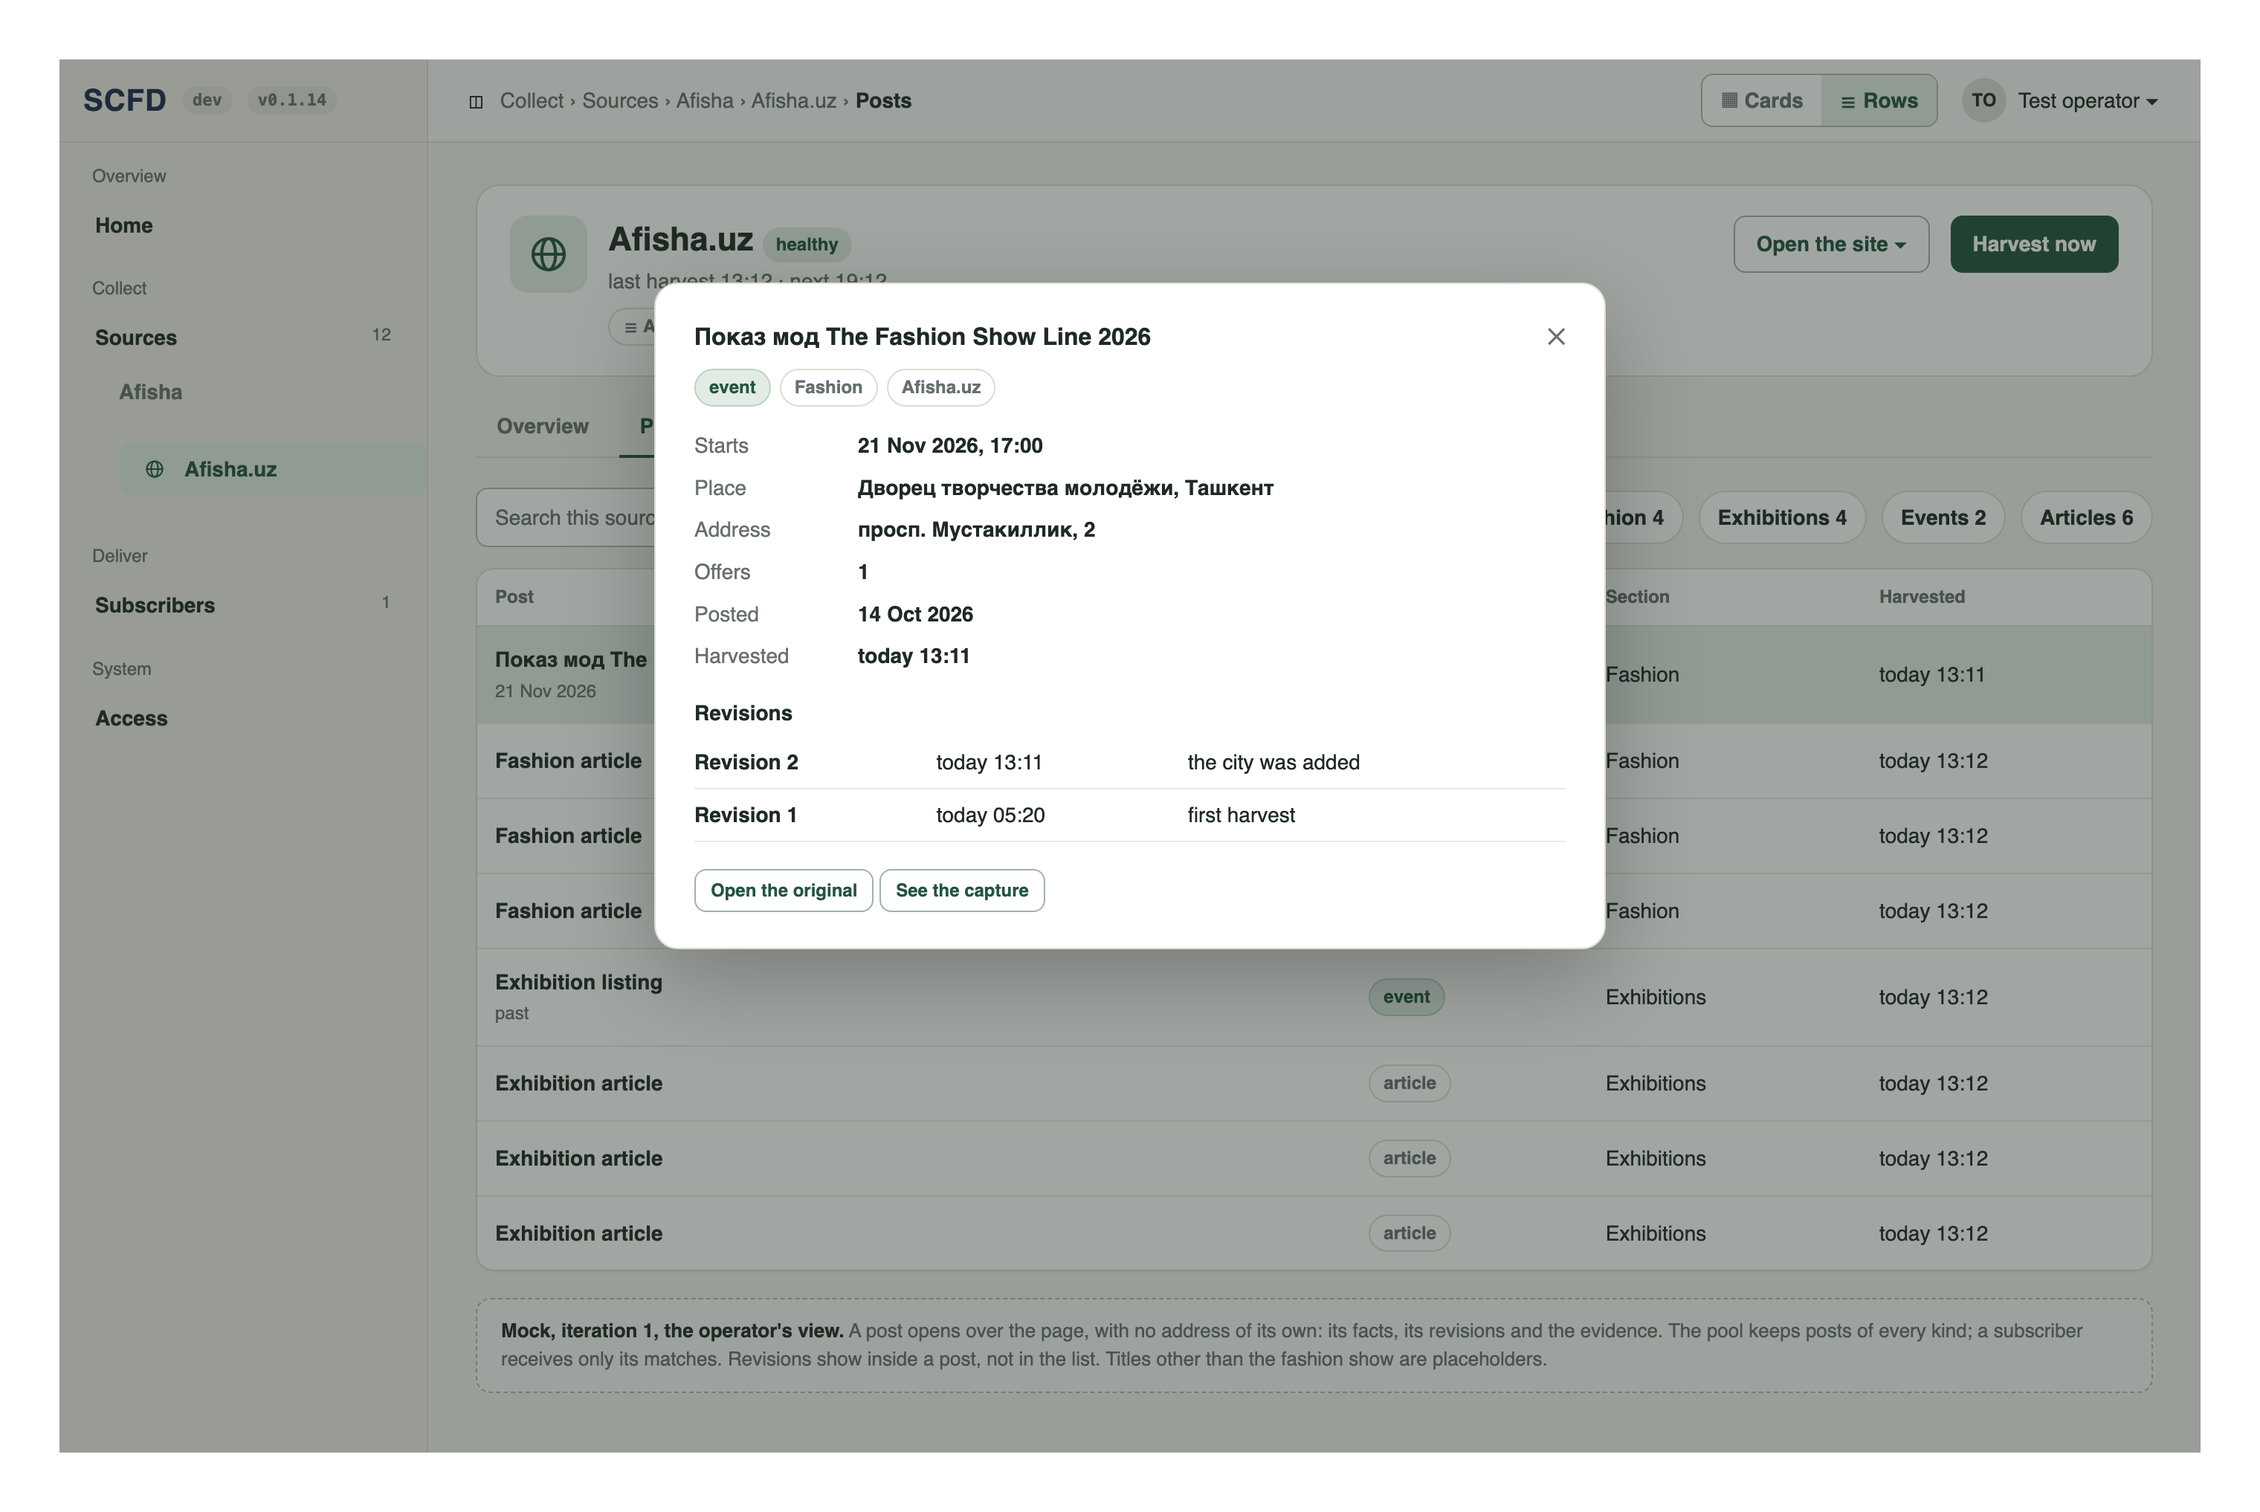
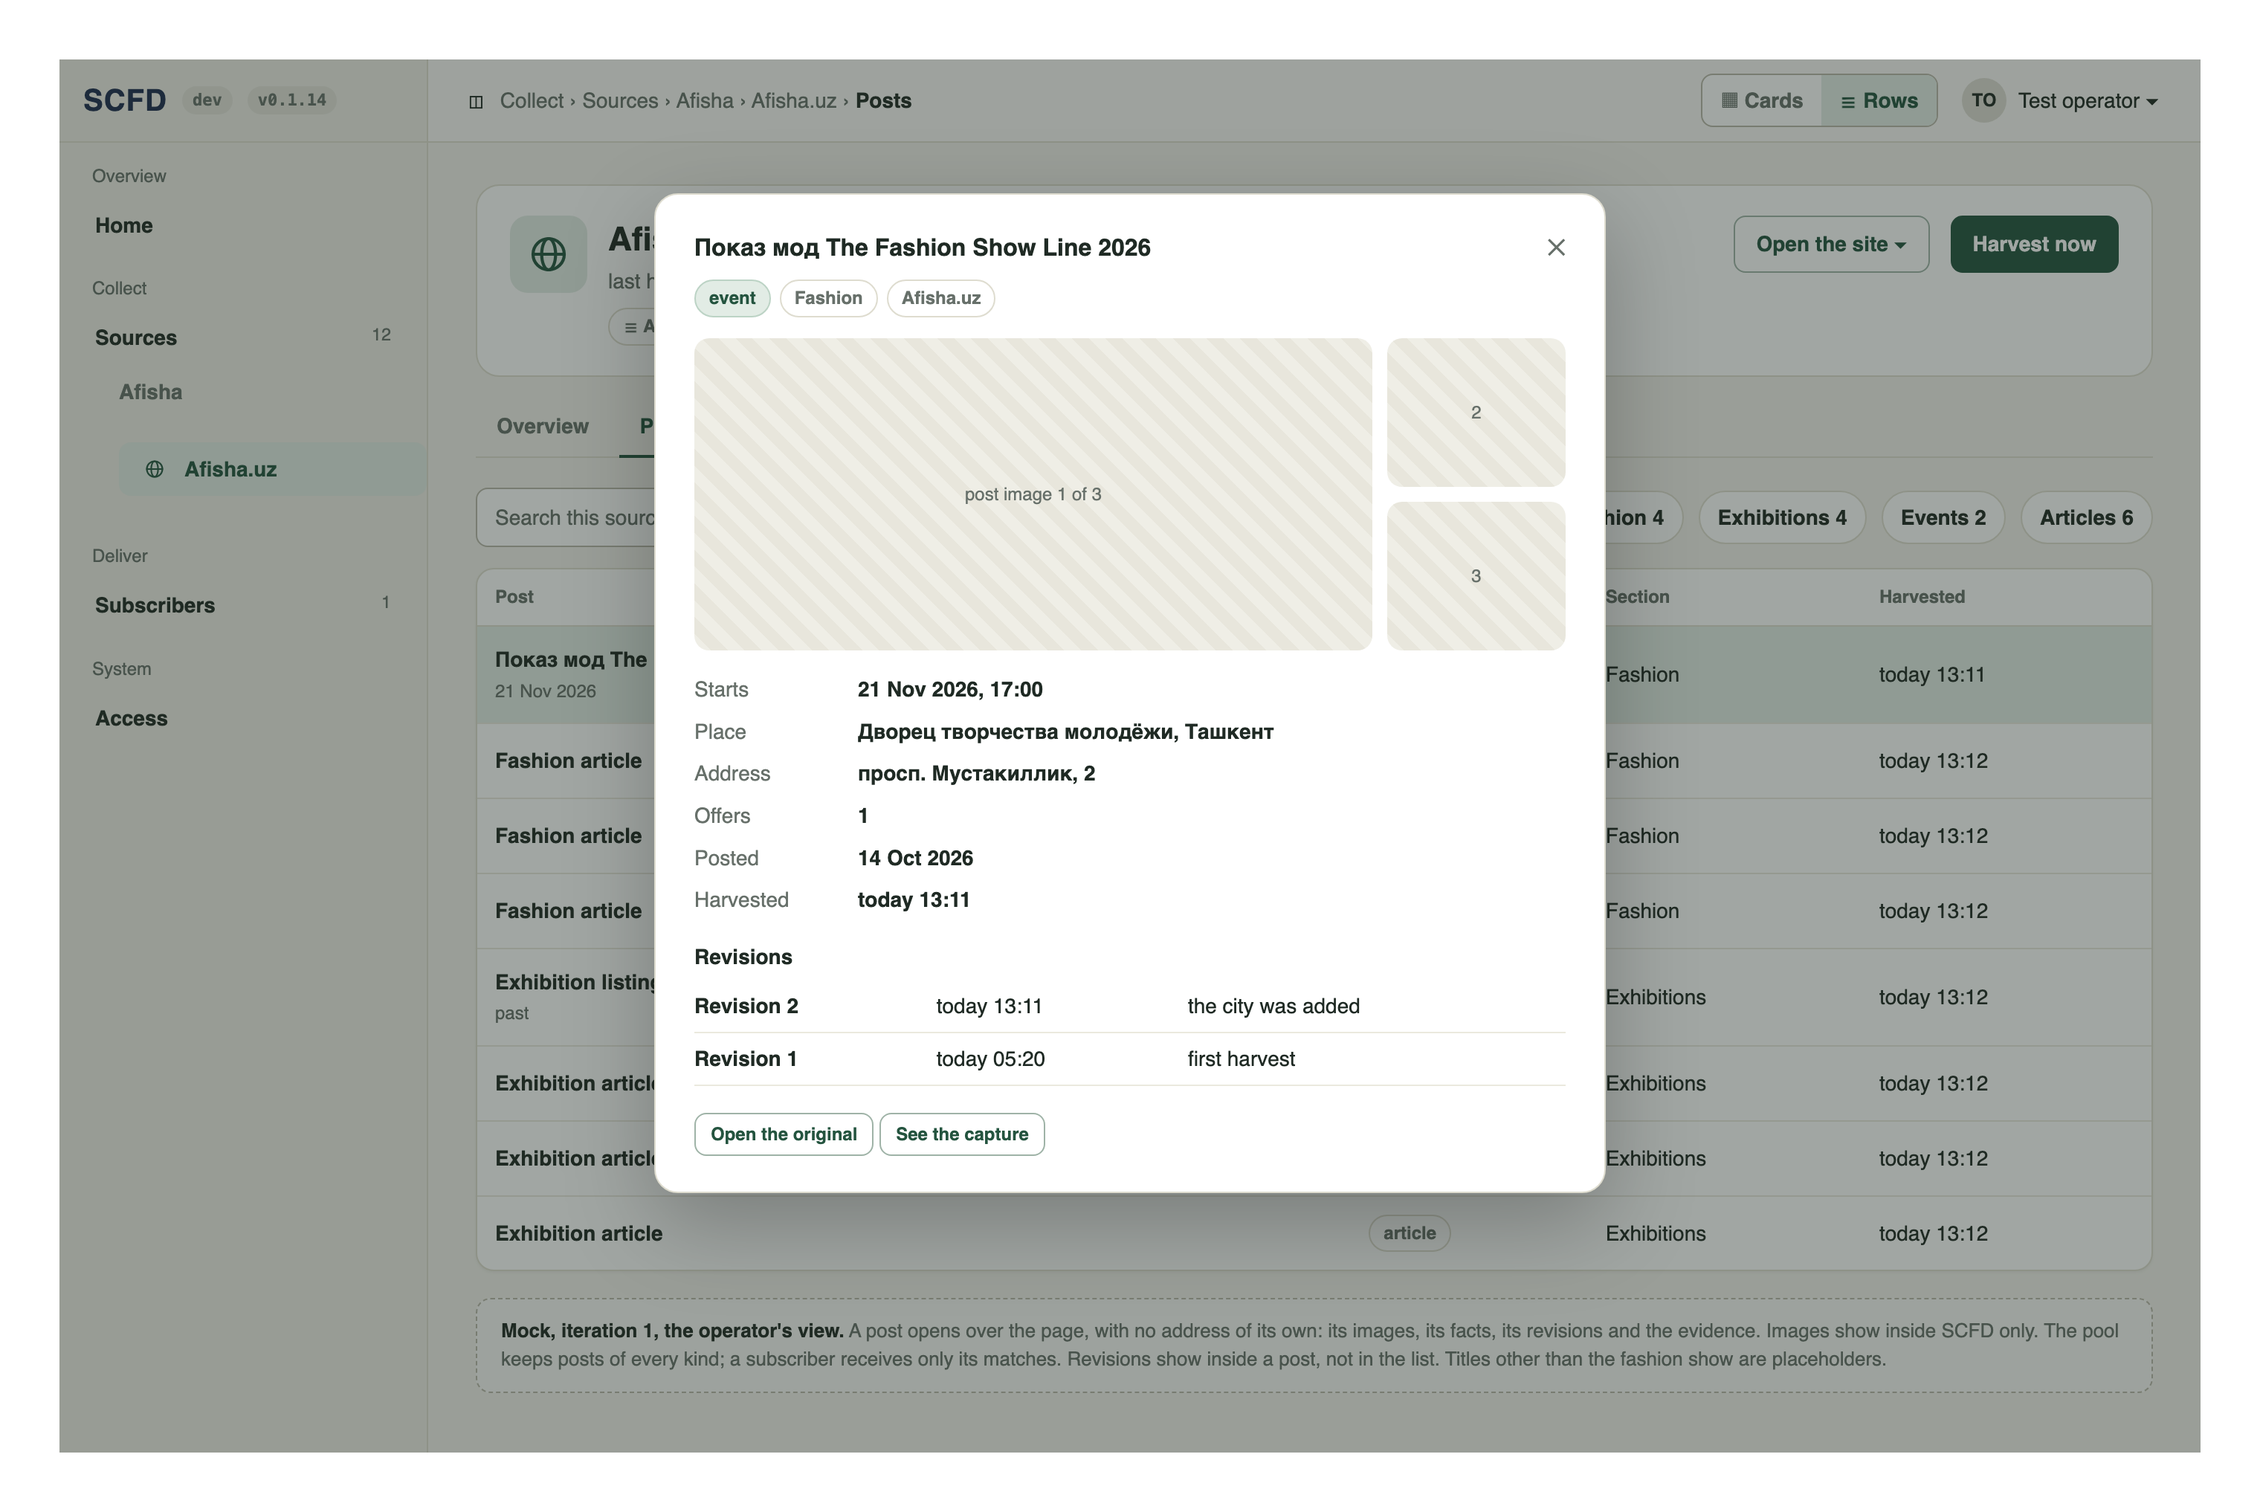
docs: added images to the SCFD post view and settled the harvest interval

diff --git a/system/sessions/events-integration/scfd-console/mocks/iter-1/source-afisha-posts-cards.html b/system/sessions/events-integration/scfd-console/mocks/iter-1/source-afisha-posts-cards.html
@@ -13,24 +13,24 @@
 <span class="grow"></span><span class="btn">Open the site &#9662;</span><span class="btn go">Harvest now</span></div></div>
 <div class="tabs"><span class="tab">Overview</span><span class="tab on">Posts <small>8</small></span><span class="tab">Activity <small>4</small></span><span class="tab">Settings</span></div><div class="row" style="margin-bottom:14px"><span class="search">Search this source's posts</span>
   <span class="filter on">All 8</span><span class="filter">Fashion 4</span><span class="filter">Exhibitions 4</span>
-  <span class="filter">Events 2</span><span class="filter">Articles 6</span></div><div class="tiles four"><div class="card pcard"><div class="thumb">image link kept</div>
+  <span class="filter">Events 2</span><span class="filter">Articles 6</span></div><div class="tiles four"><div class="card pcard"><div class="thumb">post image</div>
   <div class="pills"><span class="pill on">event</span><span class="pill ">Fashion</span></div>
-  <b>Показ мод The Fashion Show Line 2026</b><div class="desc">21 Nov 2026</div></div><div class="card pcard"><div class="thumb">no image kept</div>
+  <b>Показ мод The Fashion Show Line 2026</b><div class="desc">21 Nov 2026</div></div><div class="card pcard"><div class="thumb">post image</div>
   <div class="pills"><span class="pill ">article</span><span class="pill ">Fashion</span></div>
-  <b>Fashion article</b><div class="desc">no date</div></div><div class="card pcard"><div class="thumb">no image kept</div>
+  <b>Fashion article</b><div class="desc">no date</div></div><div class="card pcard"><div class="thumb">post image</div>
   <div class="pills"><span class="pill ">article</span><span class="pill ">Fashion</span></div>
-  <b>Fashion article</b><div class="desc">no date</div></div><div class="card pcard"><div class="thumb">no image kept</div>
+  <b>Fashion article</b><div class="desc">no date</div></div><div class="card pcard"><div class="thumb">post image</div>
   <div class="pills"><span class="pill ">article</span><span class="pill ">Fashion</span></div>
-  <b>Fashion article</b><div class="desc">no date</div></div><div class="card pcard"><div class="thumb">image link kept</div>
+  <b>Fashion article</b><div class="desc">no date</div></div><div class="card pcard"><div class="thumb">post image</div>
   <div class="pills"><span class="pill on">event</span><span class="pill ">Exhibitions</span></div>
-  <b>Exhibition listing</b><div class="desc">past</div></div><div class="card pcard"><div class="thumb">no image kept</div>
+  <b>Exhibition listing</b><div class="desc">past</div></div><div class="card pcard"><div class="thumb">post image</div>
   <div class="pills"><span class="pill ">article</span><span class="pill ">Exhibitions</span></div>
-  <b>Exhibition article</b><div class="desc">no date</div></div><div class="card pcard"><div class="thumb">no image kept</div>
+  <b>Exhibition article</b><div class="desc">no date</div></div><div class="card pcard"><div class="thumb">post image</div>
   <div class="pills"><span class="pill ">article</span><span class="pill ">Exhibitions</span></div>
-  <b>Exhibition article</b><div class="desc">no date</div></div><div class="card pcard"><div class="thumb">no image kept</div>
+  <b>Exhibition article</b><div class="desc">no date</div></div><div class="card pcard"><div class="thumb">post image</div>
   <div class="pills"><span class="pill ">article</span><span class="pill ">Exhibitions</span></div>
   <b>Exhibition article</b><div class="desc">no date</div></div></div>
-<div class="note"><b>Mock, iteration 1, the operator's view.</b> The Cards view shows each post as a tile. The pool keeps posts of every kind; a
+<div class="note"><b>Mock, iteration 1, the operator's view.</b> The Cards view shows each post as a tile with its first image. The pool keeps posts of every kind; a
 subscriber receives only its matches. Revisions show inside a post, not in the list. Titles other than the fashion
 show are placeholders.</div></div>
   </main>

diff --git a/system/sessions/events-integration/scfd-console/mocks/iter-1/source-afisha-post.html b/system/sessions/events-integration/scfd-console/mocks/iter-1/source-afisha-post.html
@@ -14,13 +14,15 @@
 <div class="tabs"><span class="tab">Overview</span><span class="tab on">Posts <small>8</small></span><span class="tab">Activity <small>4</small></span><span class="tab">Settings</span></div><div class="row" style="margin-bottom:14px"><span class="search">Search this source's posts</span>
   <span class="filter on">All 8</span><span class="filter">Fashion 4</span><span class="filter">Exhibitions 4</span>
   <span class="filter">Events 2</span><span class="filter">Articles 6</span></div><div class="card"><table><tr><th>Post</th><th>Kind</th><th>Section</th><th>Harvested</th></tr><tr class="sel"><td><b>Показ мод The Fashion Show Line 2026</b><br><small>21 Nov 2026</small></td><td><span class="pill on">event</span></td><td>Fashion</td><td>today 13:11</td></tr><tr class=""><td><b>Fashion article</b></td><td><span class="pill ">article</span></td><td>Fashion</td><td>today 13:12</td></tr><tr class=""><td><b>Fashion article</b></td><td><span class="pill ">article</span></td><td>Fashion</td><td>today 13:12</td></tr><tr class=""><td><b>Fashion article</b></td><td><span class="pill ">article</span></td><td>Fashion</td><td>today 13:12</td></tr><tr class=""><td><b>Exhibition listing</b><br><small>past</small></td><td><span class="pill on">event</span></td><td>Exhibitions</td><td>today 13:12</td></tr><tr class=""><td><b>Exhibition article</b></td><td><span class="pill ">article</span></td><td>Exhibitions</td><td>today 13:12</td></tr><tr class=""><td><b>Exhibition article</b></td><td><span class="pill ">article</span></td><td>Exhibitions</td><td>today 13:12</td></tr><tr class=""><td><b>Exhibition article</b></td><td><span class="pill ">article</span></td><td>Exhibitions</td><td>today 13:12</td></tr></table></div>
-<div class="note"><b>Mock, iteration 1, the operator's view.</b> A post opens over the page, with no address of its own: its facts, its revisions and the evidence. The pool keeps posts of every kind; a
+<div class="note"><b>Mock, iteration 1, the operator's view.</b> A post opens over the page, with no address of its own: its images, its facts, its revisions and the evidence. Images show inside SCFD only. The pool keeps posts of every kind; a
 subscriber receives only its matches. Revisions show inside a post, not in the list. Titles other than the fashion
 show are placeholders.</div></div>
   </main>
   <div class="veil"><div class="card modal">
   <div class="row"><h2 style="margin:0">Показ мод The Fashion Show Line 2026</h2><span class="grow"></span><span class="x">&#10005;</span></div>
-  <div class="pills" style="margin:10px 0 16px"><span class="pill on">event</span><span class="pill ">Fashion</span><span class="pill ">Afisha.uz</span></div>
+  <div class="pills" style="margin:10px 0 14px"><span class="pill on">event</span><span class="pill ">Fashion</span><span class="pill ">Afisha.uz</span></div>
+  <div class="shots"><div class="thumb shot">post image 1 of 3</div>
+    <div class="shot-col"><div class="thumb">2</div><div class="thumb">3</div></div></div>
   <div class="kv wide-kv"><span>Starts</span><b>21 Nov 2026, 17:00</b>
     <span>Place</span><b>Дворец творчества молодёжи, Ташкент</b>
     <span>Address</span><b>просп. Мустакиллик, 2</b>

diff --git a/system/sessions/events-integration/scfd-console/mocks/iter-1/mock.css b/system/sessions/events-integration/scfd-console/mocks/iter-1/mock.css
@@ -134,3 +134,7 @@ tr.more td { color: var(--muted); font-weight: 600; background: #f8f7f1; }
 .x { color: var(--muted); font-size: 16px; }
 .wide-kv { grid-template-columns: 110px 1fr; }
 table.plain td { padding: 7px 12px 7px 0; border-bottom: 1px solid #ebe9de; }
+.shots { display: grid; grid-template-columns: 1fr 120px; gap: 10px; margin-bottom: 16px; }
+.shot { height: 210px; }
+.shot-col { display: grid; gap: 10px; } .shot-col .thumb { height: 100px; }
+.veil { padding-top: 90px; }

diff --git a/system/sessions/events-integration/scfd-console/mocks/iter-1/build.py b/system/sessions/events-integration/scfd-console/mocks/iter-1/build.py
@@ -250,7 +250,9 @@ POST_FILTERS = """<div class="row" style="margin-bottom:14px"><span class="searc
 
 POST_MODAL = f"""<div class="veil"><div class="card modal">
   <div class="row"><h2 style="margin:0">Показ мод The Fashion Show Line 2026</h2><span class="grow"></span><span class="x">&#10005;</span></div>
-  <div class="pills" style="margin:10px 0 16px">{pill("event", "on")}{pill("Fashion")}{pill("Afisha.uz")}</div>
+  <div class="pills" style="margin:10px 0 14px">{pill("event", "on")}{pill("Fashion")}{pill("Afisha.uz")}</div>
+  <div class="shots"><div class="thumb shot">post image 1 of 3</div>
+    <div class="shot-col"><div class="thumb">2</div><div class="thumb">3</div></div></div>
   <div class="kv wide-kv"><span>Starts</span><b>21 Nov 2026, 17:00</b>
     <span>Place</span><b>Дворец творчества молодёжи, Ташкент</b>
     <span>Address</span><b>просп. Мустакиллик, 2</b>
@@ -274,17 +276,18 @@ def source_posts(view: str, modal: bool = False) -> str:
         )
         content = (f'<div class="card"><table><tr><th>Post</th><th>Kind</th><th>Section</th><th>Harvested</th></tr>'
                    f"{table}</table></div>")
-        note = ("A post opens over the page, with no address of its own: its facts, its revisions and the evidence."
+        note = ("A post opens over the page, with no address of its own: its images, its facts, its revisions and the "
+                "evidence. Images show inside SCFD only."
                 if modal else "The Rows view lists every post with its kind, section and harvest time.")
     else:
         cards = "".join(
-            f"""<div class="card pcard"><div class="thumb">{"no image kept" if kind == "article" else "image link kept"}</div>
+            f"""<div class="card pcard"><div class="thumb">post image</div>
   <div class="pills">{pill(kind, "on" if kind == "event" else "")}{pill(section)}</div>
   <b>{title}</b><div class="desc">{when or "no date"}</div></div>"""
             for title, kind, when, section, _ in POSTS
         )
         content = f'<div class="tiles four">{cards}</div>'
-        note = "The Cards view shows each post as a tile."
+        note = "The Cards view shows each post as a tile with its first image."
     body = source_head("Posts") + POST_FILTERS + content + f"""
 <div class="note"><b>Mock, iteration 1, the operator's view.</b> {note} The pool keeps posts of every kind; a
 subscriber receives only its matches. Revisions show inside a post, not in the list. Titles other than the fashion

diff --git a/system/sessions/events-integration/scfd-console/scfd-console-analysis.md b/system/sessions/events-integration/scfd-console/scfd-console-analysis.md
@@ -152,10 +152,15 @@ Orchestrator's picks. Each settles on the mocks, then becomes the page map the s
   won't be available for client login").
 - #43 The pool keeps posts of every kind; a subscriber receives only its matches, so Ocharo sees events only
   (developer, 2026-11-10).
-- #44 Open: who sets how often a section is harvested. Orchestrator's pick: the operator, per source section, from how
+- #44 Settled 2026-11-10 (developer: "with subscriber's smallest we lose events I think, so we setting is the best
+  imo"): the operator sets how often a section is harvested. The reasoning: the operator, per source section, from how
   often the source changes and how politely it can be read; never the smallest interval a subscriber asks for, which
   would let one client drive load on a source. A subscriber's own schedule is how it receives: it pulls its matches,
   and a webhook ping to its server can tell it to pull now; SignalR fits a browser page, not a service.
+- #46 Settled 2026-11-10: a post's view shows its images, in the opened post and as the first image on a card
+  (developer: "images are part of the harvest - so we should def show them"). The engine models them (`PostMedia`,
+  `CaptureMedia`, the `Media` step that copies images into file storage). They show inside SCFD only; what a
+  subscriber's public page may show stays under `events-integration` #32 and #50.
 - #45 Later, not in iteration 1: a choice of outgoing server per source once a second server exists (no proxy pools,
   `events-integration` #50); AI use per source (#54, #55); Home; Subscribers; the client's Following page (#37).
 

diff --git a/system/sessions/events-integration/events-integration.md b/system/sessions/events-integration/events-integration.md
@@ -464,6 +464,9 @@ Developer, 2026-10-24 to 2026-11-10; not reopened.
     you think sources are ready for this iteration - can update the site itself and we'll do aother iteration".
     Iteration 1 is final for the operator's Sources area (analysis #40–#45, 9 mock pages) and goes to the scfd lane to
     build. Open with the developer: who sets a section's harvest interval (analysis #44).
+  - Developer, 2026-11-10, after the hand-over: a post's view shows its images ("images are part of the harvest - so
+    we should def show them"), and the operator sets a section's harvest interval ("we setting is the best imo").
+    Analysis #44 and #46; both relayed to the scfd lane mid-build.
 
 ## Contracts
 
